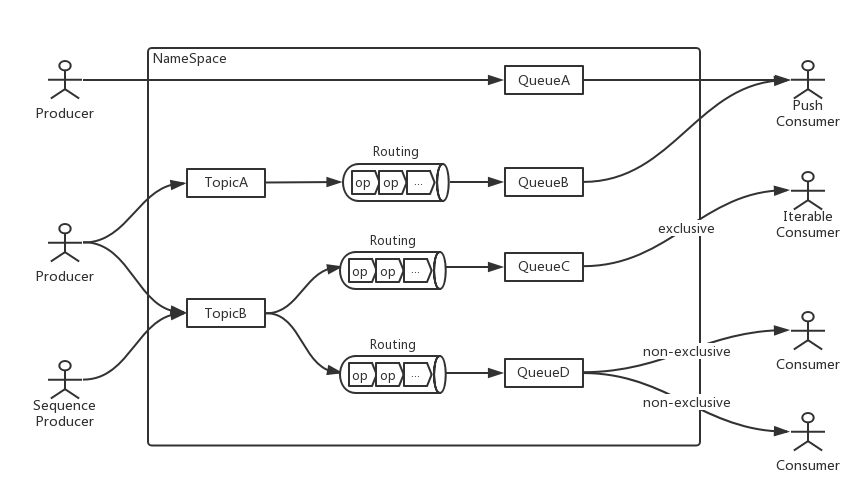
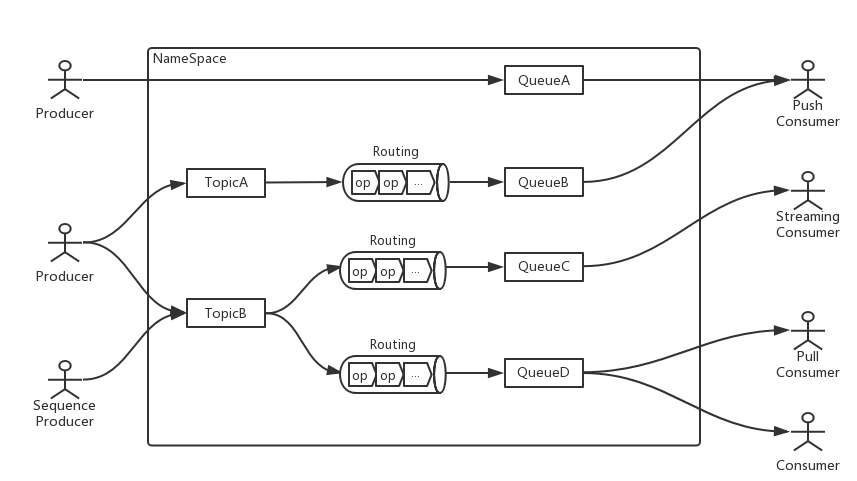
Add StreamingConsumer.

diff --git a/code/messaging-user-level-api/java/src/main/java/io/openmessaging/PartitionIterator.java b/code/messaging-user-level-api/java/src/main/java/io/openmessaging/PartitionIterator.java
@@ -20,27 +20,31 @@ package io.openmessaging;
 import io.openmessaging.exception.OMSRuntimeException;
 
 /**
- * A {@code Queue} supports streaming consumption.
+ * A {@code Queue} is divided by many partitions.
  * <p>
- * A {@code IterableConsumer} object supports consume messages from a
- * specified queue by streaming way.
+ * A {@code PartitionIterator} object supports consume messages from a
+ * specified partition like a iterator.
  *
  * @author vintagewang@apache.org
  * @author yukon@apache.org
  * @version OMS 1.0
- * @see MessagingAccessPoint#createIterableConsumer(String)
+ * @see StreamingConsumer#partitionIterator(String)
  * @since OMS 1.0
  */
-public interface IterableConsumer extends ServiceLifecycle{
+public interface PartitionIterator extends ServiceLifecycle {
     /**
-     * Returns the properties of this {@code PushConsumer} instance.
-     * Changes to the return {@code KeyValue} are not reflected in physical {@code PushConsumer},
-     * and use {@link ResourceManager#setConsumerProperties(String, KeyValue)} to modify.
+     * Returns the properties of this {@code PartitionIterator} instance.
      * <p>
-     * There are some standard properties defined by OMS for {@code IterableConsumer}:
+     * There are some standard properties defined by OMS for {@code PartitionIterator}:
      * <ul>
-     * <li> {@link PropertyKeys#CONSUMER_ID}, the unique consumer id for a consumer instance.
-     * <li> {@link PropertyKeys#OPERATION_TIMEOUT}, the default timeout period for operations of {@code IterableConsumer}.
+     * <li> {@link PropertyKeys#OPERATION_TIMEOUT}, the default timeout period for operations of {@code
+     * PartitionIterator}.
+     * <li> {@link PropertyKeys#BEGIN_OFFSET}, the begin offset boarder of this partition iterator.
+     * <li> {@link PropertyKeys#END_OFFSET}, the end offset boarder of this partition iterator.
+     * <li> {@link PropertyKeys#BEGIN_TIMESTAMP}, the begin offset represented
+     * by this timestamp of this partition iterator.
+     * <li> {@link PropertyKeys#END_TIMESTAMP}, the end offset represented
+     * by this timestamp of this partition iterator.
      * </ul>
      *
      * @return the properties
@@ -90,7 +94,7 @@ public interface IterableConsumer extends ServiceLifecycle{
 
     /**
      * Persist this iterator to local or remote server, that depends on specified
-     * implementation of {@link IterableConsumer}.
+     * implementation of {@link PartitionIterator}.
      */
     void persist();
 
@@ -99,7 +103,7 @@ public interface IterableConsumer extends ServiceLifecycle{
      * traversing the iterator in the forward direction.
      *
      * @return {@code true} if the partition iterator has more messages when
-     *         traversing the iterator in the forward direction
+     * traversing the iterator in the forward direction
      */
     boolean hasNext();
 
@@ -119,7 +123,7 @@ public interface IterableConsumer extends ServiceLifecycle{
      * traversing the iterator in the reverse direction.
      *
      * @return {@code true} if the partition iterator has more messages when
-     *         traversing the iterator in the reverse direction
+     * traversing the iterator in the reverse direction
      */
     boolean hasPrevious();
 

diff --git a/code/messaging-user-level-api/java/src/main/java/io/openmessaging/StreamingConsumer.java b/code/messaging-user-level-api/java/src/main/java/io/openmessaging/StreamingConsumer.java
@@ -1,0 +1,73 @@
+/*
+ * Licensed to the Apache Software Foundation (ASF) under one or more
+ * contributor license agreements.  See the NOTICE file distributed with
+ * this work for additional information regarding copyright ownership.
+ * The ASF licenses this file to You under the Apache License, Version 2.0
+ * (the "License"); you may not use this file except in compliance with
+ * the License.  You may obtain a copy of the License at
+ *
+ *     http://www.apache.org/licenses/LICENSE-2.0
+ *
+ *  Unless required by applicable law or agreed to in writing, software
+ *  distributed under the License is distributed on an "AS IS" BASIS,
+ *  WITHOUT WARRANTIES OR CONDITIONS OF ANY KIND, either express or implied.
+ *  See the License for the specific language governing permissions and
+ *  limitations under the License.
+ */
+
+package io.openmessaging;
+
+import java.util.List;
+
+/**
+ * A {@code Queue} is divided by many partitions.
+ * <p>
+ * A {@code StreamingConsumer} object supports consume messages from a
+ * specified partition like a iterator.
+ *
+ * @author yukon@apache.org
+ * @version OMS 1.0
+ * @see PartitionIterator
+ * @since OMS 1.0
+ */
+public interface StreamingConsumer extends ServiceLifecycle {
+    /**
+     * Returns the properties of this {@code StreamingConsumer} instance.
+     * Changes to the return {@code KeyValue} are not reflected in physical {@code StreamingConsumer},
+     * and use {@link ResourceManager#setConsumerProperties(String, KeyValue)} to modify.
+     * <p>
+     * There are some standard properties defined by OMS for {@code StreamingConsumer}:
+     * <ul>
+     * <li> {@link PropertyKeys#CONSUMER_ID}, the unique consumer id for a consumer instance.
+     * <li> {@link PropertyKeys#OPERATION_TIMEOUT}, the default timeout period for operations of {@code
+     * StreamingConsumer}.
+     * </ul>
+     *
+     * @return the properties
+     */
+    KeyValue properties();
+
+    /**
+     * Returns all the partitions of the related queue.
+     *
+     * @return the partition list
+     */
+    List<String> partitions();
+
+    /**
+     * Creates a partition iterator from a specified partition.
+     *
+     * @param partition a specified partition
+     * @return a partition iterator
+     */
+    PartitionIterator partitionIterator(String partition);
+
+    /**
+     * Creates a partition iterator from a specified partition, with some preset properties.
+     *
+     * @param partition a specified partition
+     * @return a partition iterator
+     * @see PartitionIterator#properties()
+     */
+    PartitionIterator partitionIterator(String partition, KeyValue properties);
+}

diff --git a/code/messaging-user-level-samples/java/src/main/java/io/openmessaging/samples/consumer/StreamingConsumerApp.java b/code/messaging-user-level-samples/java/src/main/java/io/openmessaging/samples/consumer/StreamingConsumerApp.java
@@ -1,13 +1,14 @@
 package io.openmessaging.samples.consumer;
 
-import io.openmessaging.IterableConsumer;
+import io.openmessaging.PartitionIterator;
 import io.openmessaging.Message;
 import io.openmessaging.MessagingAccessPoint;
 import io.openmessaging.MessagingAccessPointFactory;
 import io.openmessaging.OMS;
 import io.openmessaging.ResourceManager;
+import io.openmessaging.StreamingConsumer;
 
-public class IterableConsumerApp {
+public class StreamingConsumerApp {
     public static void main(String[] args) {
         final MessagingAccessPoint messagingAccessPoint = MessagingAccessPointFactory
             .getMessagingAccessPoint("openmessaging:rocketmq://localhost:10911/namespace");
@@ -17,30 +18,32 @@ public class IterableConsumerApp {
 
         resourceManager.createAndUpdateQueue("HELLO_QUEUE", OMS.newKeyValue());
 
-        final IterableConsumer iterableConsumer = messagingAccessPoint.createIterableConsumer("HELLO_QUEUE");
+        final StreamingConsumer streamingConsumer = messagingAccessPoint.createStreamingConsumer("HELLO_QUEUE");
 
-        iterableConsumer.startup();
+        streamingConsumer.startup();
 
-        while (iterableConsumer.hasNext()) {
-            Message message = iterableConsumer.next();
+        PartitionIterator partitionIterator = streamingConsumer.partitionIterator(streamingConsumer.partitions().get(0));
+
+        while (partitionIterator.hasNext()) {
+            Message message = partitionIterator.next();
             System.out.println("Received one message: " + message);
         }
 
         //All the messages in the queue has been consumed.
 
         //Now consume the messages in reverse order
-        while (iterableConsumer.hasPrevious()) {
-            Message message = iterableConsumer.previous();
+        while (partitionIterator.hasPrevious()) {
+            Message message = partitionIterator.previous();
             System.out.println("Received one message again: " + message);
         }
 
         //Persist the consume offset.
-        iterableConsumer.persist();
+        partitionIterator.persist();
 
         Runtime.getRuntime().addShutdownHook(new Thread(new Runnable() {
             @Override
             public void run() {
-                iterableConsumer.shutdown();
+                streamingConsumer.shutdown();
                 messagingAccessPoint.shutdown();
             }
         }));

diff --git a/code/messaging-user-level-api/java/src/main/java/io/openmessaging/MessagingAccessPoint.java b/code/messaging-user-level-api/java/src/main/java/io/openmessaging/MessagingAccessPoint.java
@@ -135,25 +135,25 @@ public interface MessagingAccessPoint extends ServiceLifecycle {
     PullConsumer createPullConsumer(String queueName, KeyValue properties);
 
     /**
-     * Creates a new {@code IterableConsumer} for the specified {@code MessagingAccessPoint}.
+     * Creates a new {@code StreamingConsumer} for the specified {@code MessagingAccessPoint}.
      *
-     * @param queueName the only attached queue for this {@code IterableConsumer}
+     * @param queueName the only attached queue for this {@code StreamingConsumer}
      * @throws OMSRuntimeException if the {@code MessagingAccessPoint} fails
      * to handle this request due to some internal error
-     * @return the created {@code IterableConsumer}
+     * @return the created {@code PartitionIterator}
      */
-    IterableConsumer createIterableConsumer(String queueName);
+    StreamingConsumer createStreamingConsumer(String queueName);
 
     /**
-     * Creates a new {@code IterableConsumer} for the specified {@code MessagingAccessPoint} with some preset properties.
+     * Creates a new {@code StreamingConsumer} for the specified {@code MessagingAccessPoint} with some preset properties.
      *
-     * @param queueName the only attached queue for this {@code IterableConsumer}
+     * @param queueName the only attached queue for this {@code StreamingConsumer}
      * @param properties the preset properties
      * @throws OMSRuntimeException if the {@code MessagingAccessPoint} fails
      * to handle this request due to some internal error
      * @return the created consumer
      */
-    IterableConsumer createIterableConsumer(String queueName, KeyValue properties);
+    StreamingConsumer createStreamingConsumer(String queueName, KeyValue properties);
 
     /**
      * Gets a lightweight {@code ResourceManager} instance from the specified {@code MessagingAccessPoint}.

diff --git a/code/messaging-user-level-api/java/src/main/java/io/openmessaging/PropertyKeys.java b/code/messaging-user-level-api/java/src/main/java/io/openmessaging/PropertyKeys.java
@@ -35,4 +35,8 @@ public interface PropertyKeys {
     String OPERATOR_NAME = "oms.operator.name";
     String DST_QUEUE = "oms.dst.queue";
     String SRC_TOPIC = "oms.src.topic";
+    String BEGIN_OFFSET = "oms.begin.offset";
+    String END_OFFSET = "oms.end.offset";
+    String BEGIN_TIMESTAMP = "oms.begin.timestamp";
+    String END_TIMESTAMP = "oms.end.timestamp";
 }
